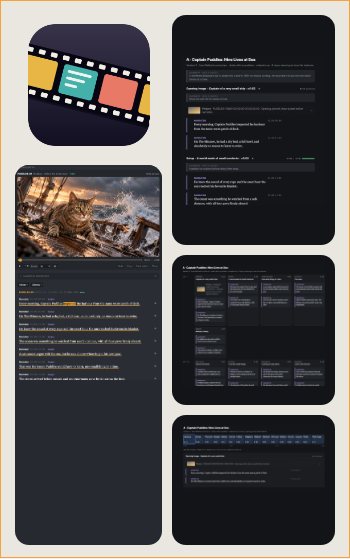
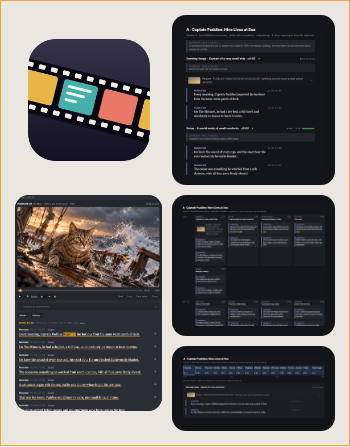
Fix mobile Story Builder screenshot spacing

diff --git a/tests/ai-builds-hit-area.test.ts b/tests/ai-builds-hit-area.test.ts
@@ -14,3 +14,45 @@ test('AI build previews remain decorative and cannot intercept CTAs', async () =
     assert.match(source, /\.build-card__cta\{[^}]*position:relative[^}]*z-index:3/, `${file} should keep the CTA above the preview`);
   }
 });
+
+// Natural screenshot proportions prevent tall black letterboxes on phones.
+test('Story Builder mobile preview fits its screenshots and closes back to copy', async (t) => {
+  const { chromium } = await import('playwright');
+  const { startDistServer } = await import('./helpers/dist-server.ts');
+  const { server, url } = await startDistServer();
+  const browser = await chromium.launch();
+  t.after(async () => { await browser.close(); server.closeAllConnections(); await new Promise<void>((resolve) => server.close(() => resolve())); });
+  for (const route of ['/', '/ai-builds/index.html']) {
+    for (const width of [320, 390, 430]) {
+      const page = await browser.newPage({ viewport: { width, height: 844 }, isMobile: true, hasTouch: true, reducedMotion: 'reduce' });
+      await page.route(/\.(mp4|webm)(\?|$)/, (route) => route.abort());
+      await page.goto(url + route, { waitUntil: 'load' });
+      const card = page.locator('#build-story-builder');
+      await card.scrollIntoViewIfNeeded();
+      await card.tap();
+      await page.waitForFunction(() => document.querySelector('#build-story-builder')?.classList.contains('is-active'));
+      await page.waitForFunction(() => [...document.querySelectorAll<HTMLImageElement>('#build-story-builder img')].every((image) => image.complete && image.naturalWidth > 0), undefined, { timeout: 10000 });
+      const sizes = await card.evaluate((element) => {
+        const shot = element.querySelector('.build-card__shot')!;
+        const images = [...shot.querySelectorAll('img')];
+        return {
+          overflow: document.documentElement.scrollWidth > innerWidth,
+          bottomGap: shot.getBoundingClientRect().bottom - Math.max(...images.map((image) => image.getBoundingClientRect().bottom)),
+          letterboxes: images.map((image) => {
+            const style = getComputedStyle(image);
+            const box = image.getBoundingClientRect();
+            const width = box.width - parseFloat(style.paddingLeft) - parseFloat(style.paddingRight);
+            const height = box.height - parseFloat(style.paddingTop) - parseFloat(style.paddingBottom);
+            return Math.abs(height - width * image.naturalHeight / image.naturalWidth);
+          }),
+        };
+      });
+      assert.equal(sizes.overflow, false);
+      assert.ok(sizes.letterboxes.every((gap) => gap < 1), `Images should fit naturally: ${JSON.stringify(sizes)}`);
+      assert.ok(sizes.bottomGap <= 15, `Preview should end at its content: ${sizes.bottomGap}`);
+      await card.tap();
+      assert.equal(await card.locator('.build-card__desc').isVisible(), true, 'Second tap restores the description');
+      await page.close();
+    }
+  }
+});

diff --git a/docs/story-builder-layout-review/index.html b/docs/story-builder-layout-review/index.html
@@ -7,9 +7,10 @@
   .selected-board img:nth-child(5){ grid-area:strip; padding:18px; object-fit:cover; object-position:center top; }
   .selected-board{ min-height:716px; }
   @media (max-width:720px){
-    .selected-board{ min-height:558px; }
-    .selected-board{ grid-template-columns:.95fr 1.05fr; grid-template-rows:140px 80px 150px 130px; grid-template-areas:"icon script" "transcript script" "transcript board" "transcript strip"; gap:10px; padding:14px; }
-    .selected-board img:nth-child(1){ width:132px; height:132px; }
+    .selected-board{ min-height:0; }
+    .selected-board{ grid-template-columns:.95fr 1.05fr; grid-template-rows:auto auto auto; grid-template-areas:"icon script" "transcript board" "transcript strip"; gap:10px; padding:14px; align-items:start; align-content:start; }
+    .selected-board img{ height:auto; max-height:none; }
+    .selected-board img:nth-child(1){ width:132px; height:auto; }
     .selected-board img:nth-child(3), .selected-board img:nth-child(4), .selected-board img:nth-child(5){ padding:10px; }
     .selected-board img:nth-child(4), .selected-board img:nth-child(5){ object-fit:contain; }
   }

diff --git a/docs/story-builder-showcase.md b/docs/story-builder-showcase.md
@@ -79,3 +79,8 @@ Build and26UI tests passed. Both routes passed1440/390 hover/tap, five loaded co
 Jeremy approved and requested deployment of the final feature board. Vercel deployment `dpl_BtY3dVLcY62jdvx5eVD7kqKPAhCj` is READY, aliased to https://www.jeremytwogood.com. Release snapshot `/private/tmp/story-builder-board-release-20261008` uses HEAD83995bb plus approved Story Builder components/data, icon and four feature crops. Includes the MCP/AI-control description and approved generated shipwreck image within Transcript. Welcome omitted. Unrelated chatbot and social metadata drafts excluded; exclusion and source parity checked against the prior release. No commit, merge or push.
 
 Release build and166 tests passed:86 core,26UI,54API. The snapshot smoke test checks existing production og-image.jpg; working checkout test unchanged. Live both pages1440/390 passed hover/tap, exact five assets, MCP copy, contained images, no overflow, reduced motion and no-JavaScript copy. Cache-busted hashes matched all five local release image bytes. Homepage, AI Builds, MCP/discovery200; chat GET405. Live screenshots `/private/tmp/puddles-board-live-{1440,390}-{home,builds}.png`. Vercel repeated the two existing api/chat.ts TS2339 diagnostics while completing READY.
+
+
+## Mobile screenshot spacing fix — 2026-10-08
+
+Fixed the oversized black bands reported on iPhone. The mobile feature board uses natural image heights and automatic grid rows; the active card sizes to the preview rather than a fixed-height overlay. Script, Board and Strip retain10px internal padding, Transcript stays uncropped and the icon remains centered. Desktop geometry unchanged. Second tap restores description; without JavaScript the normal card remains readable. Browser regression checks both pages at320/390/430 for image aspect ratios, bottom spacing, no horizontal overflow and closing the preview. Updated desktop/phone review captures.
